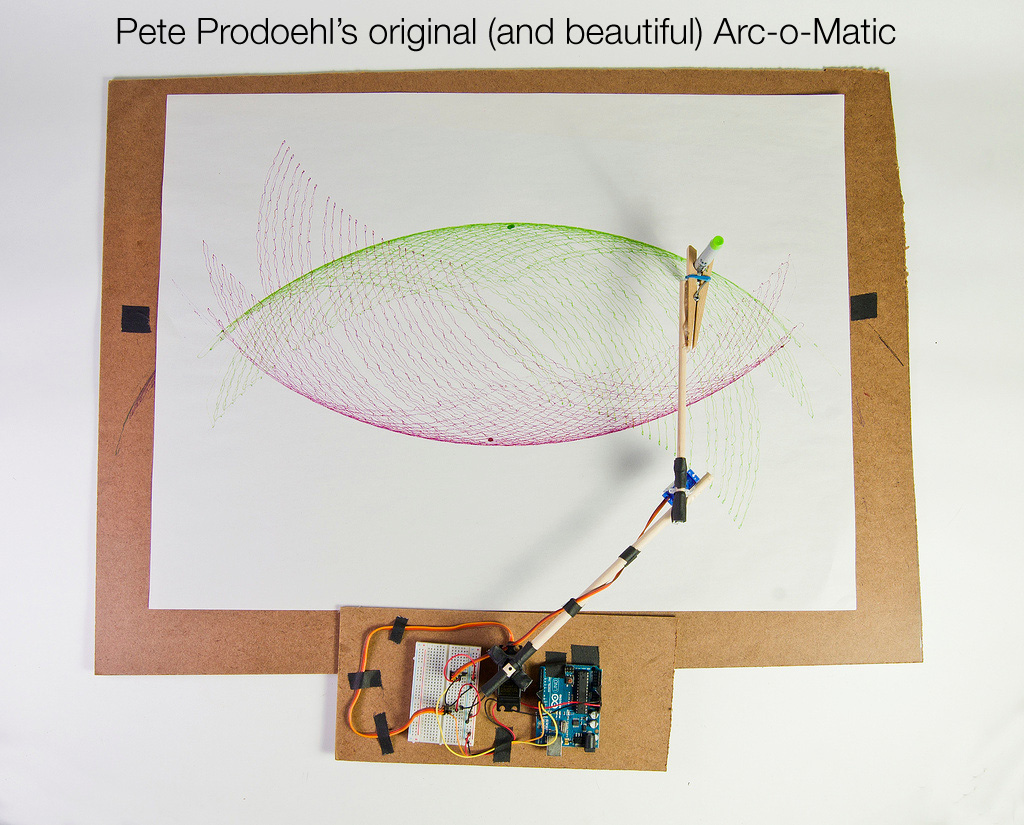
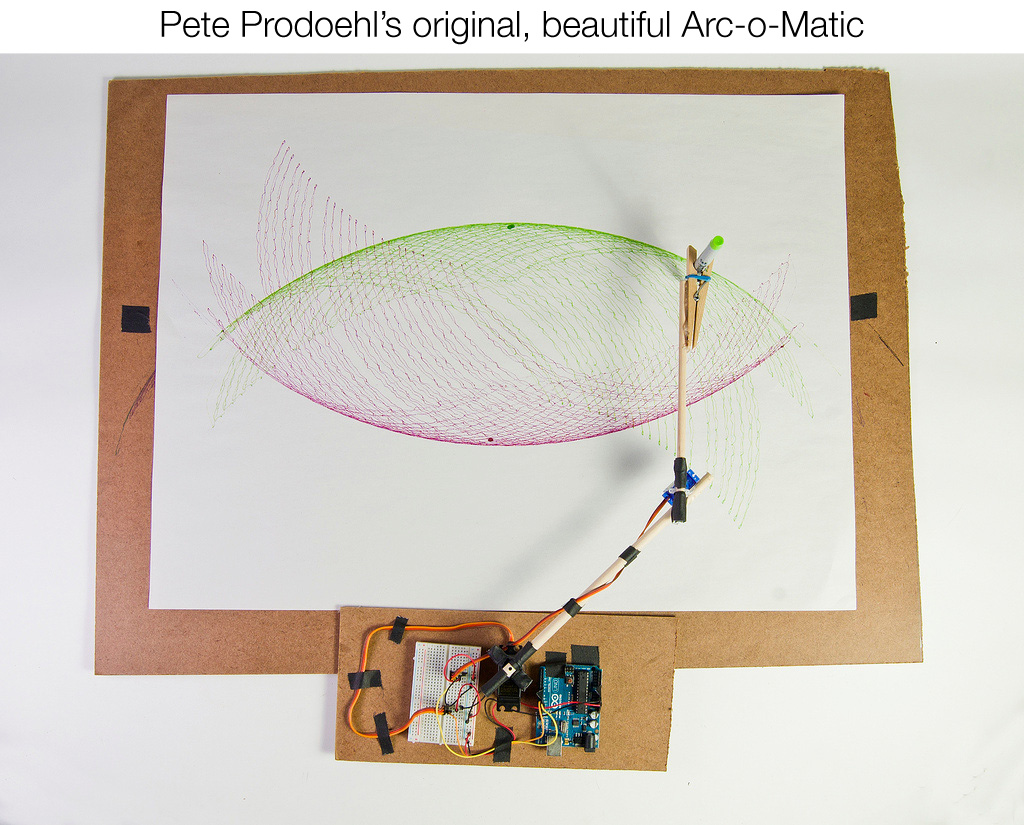
photo edits

Changed region(s): [[0.0, 0.0, 1.0, 0.0909]]

diff --git a/project/hardware.md b/project/hardware.md
@@ -20,3 +20,5 @@ Additionally, you'll need something to mount your drawing medium on, such as MDF
 3. Mount one motor on your base; attach the second motor to the first motor's dowel, again using electrical tape and/or zipties.
 
 4. Attach the clothespin to the end of the second motor's dowel.
+
+These instructions are meant to be inspirational; for pictures, see [Pete Prodoehl's setup of the original Arc-o-Matic](http://rasterweb.net/raster/projects/arcomatic/).
